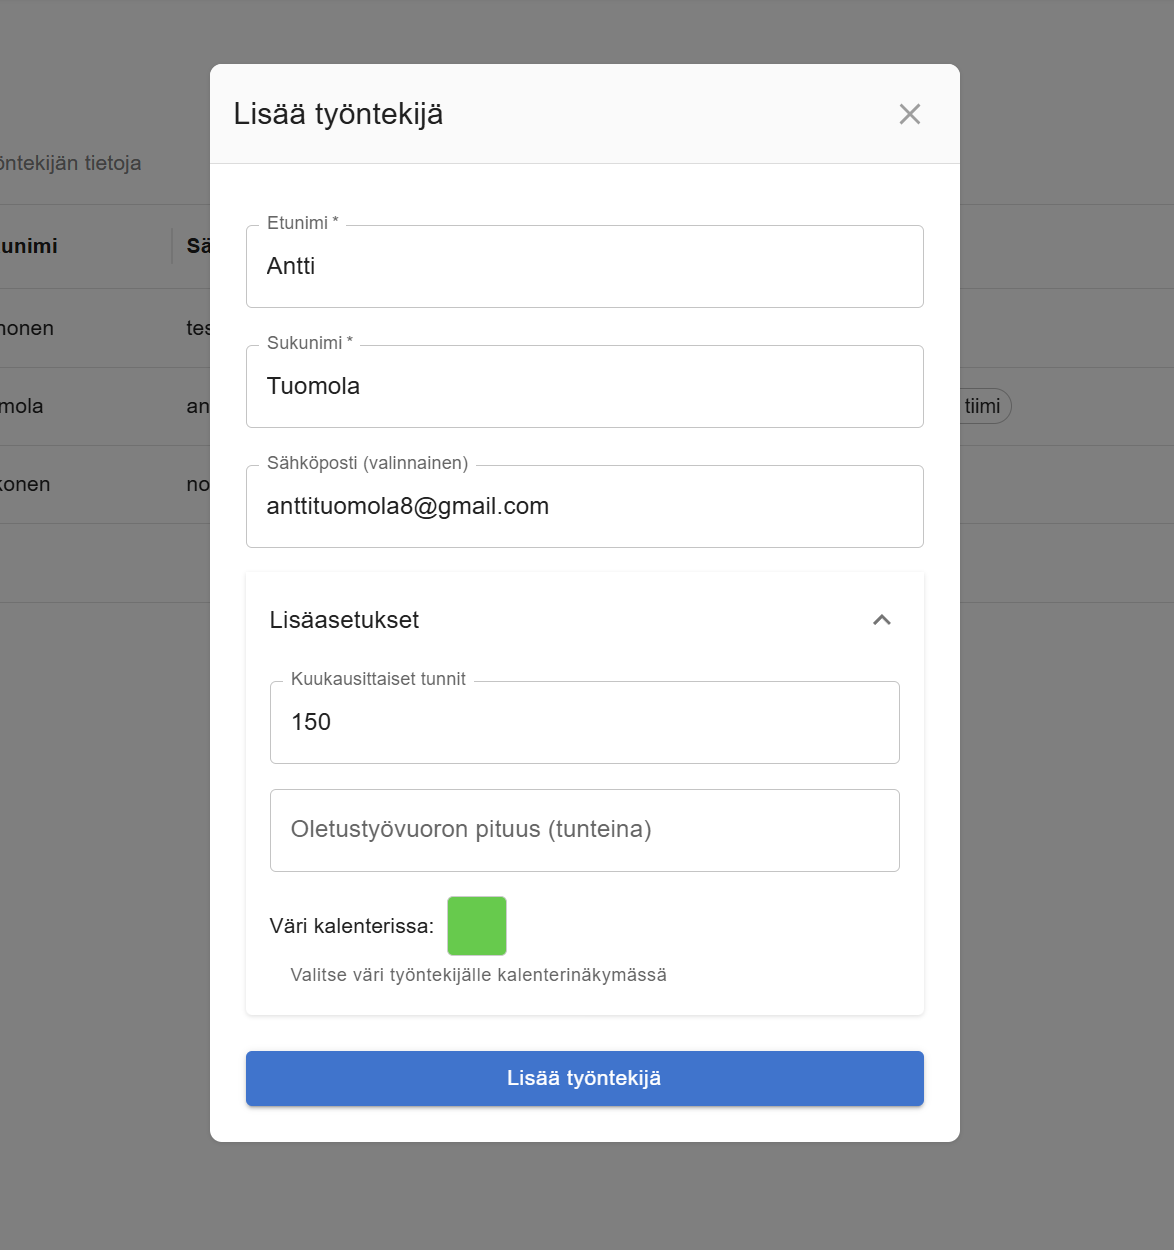
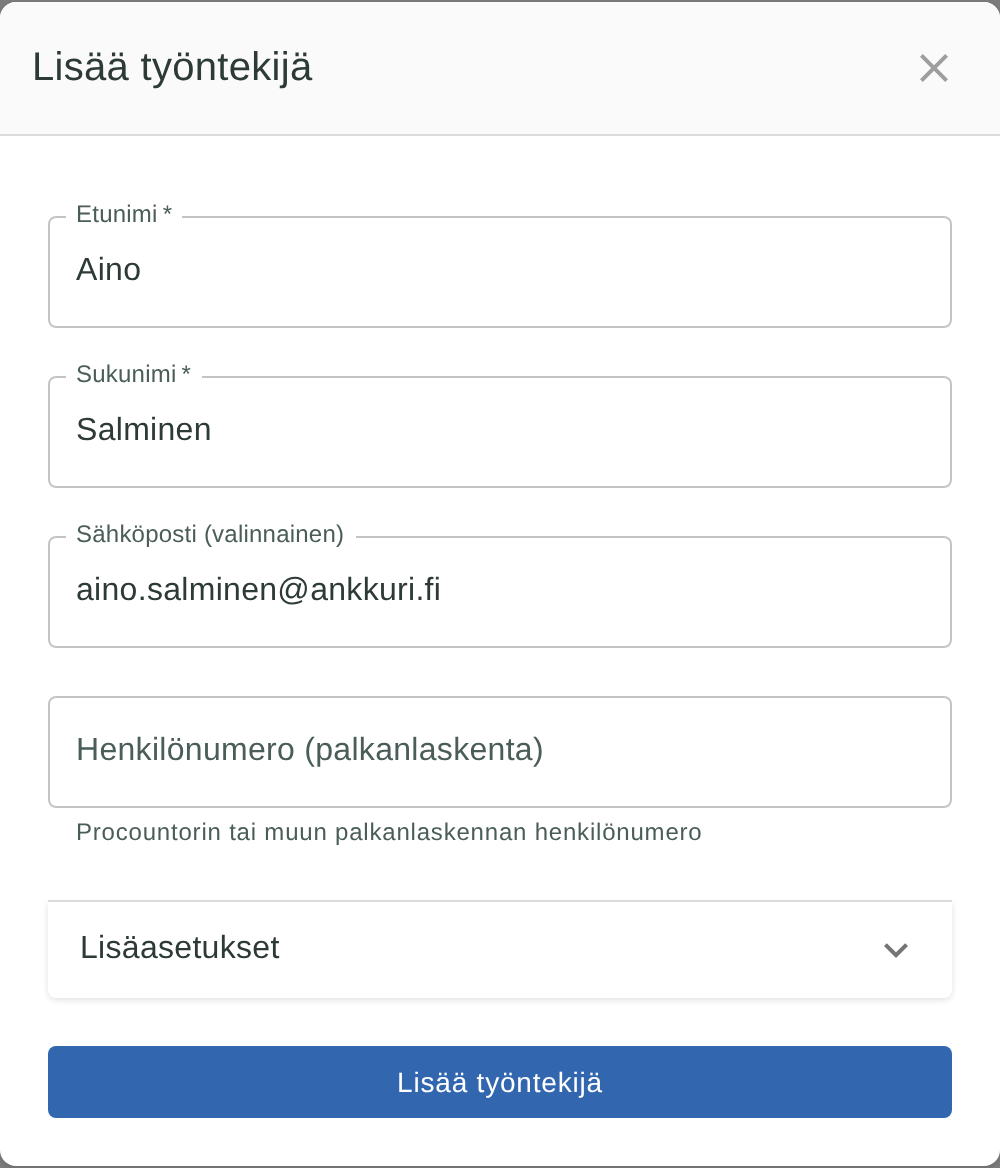
Update blog posts on employee management: Revise content to include new employee import feature, enhance clarity on adding employees, and update images for better visual representation. Adjust publication date and description for improved relevance.

diff --git a/src/pages/posts/tyontekijoiden_hallinta.md b/src/pages/posts/tyontekijoiden_hallinta.md
@@ -1,60 +1,102 @@
 ---
 layout: ../../layouts/MarkdownPostLayout.astro
-title: 'Työntekijöiden hallinta: lisääminen, muokkaus ja poisto'
-pubDate: 2026-05-22
-description: 'Opas työntekijöiden lisäämiseen, tietojen muokkaamiseen ja pysyvään poistoon – sekä mitä tapahtuu julkaistuille ja julkaisemattomille vuoroille.'
+title: 'Työntekijöiden hallinta: lisääminen, tuonti, muokkaus ja poisto'
+pubDate: 2026-07-25
+description: 'Kaikki tavat lisätä työntekijöitä: yksi kerrallaan, liitä lista (tuonti) ja tuonti tilin luonnissa. Lisäksi muokkaus, poisto ja tilauksen työntekijäraja.'
 author: 'Antti Tuomola'
 image:
     url: '/blogPostImages/tyontekijoiden_hallinta/yleiskuva.png'
-    alt: 'Työntekijät-sivu työntekijälistauksella.'
-tags: ["työntekijät", "hallinta", "onboarding", "työsopimus"]
+    alt: 'Työntekijät-sivu, jossa painikkeet Tuo työntekijät ja Lisää uusi työntekijä.'
+tags: ["työntekijät", "hallinta", "onboarding", "työsopimus", "päivitykset"]
 ---
 
-Työntekijät ovat työvuorosuunnittelun perusta. Tässä oppaassa käymme läpi, miten lisäät uuden työntekijän, muokkaat hänen tietojaan ja poistat työntekijän pysyvästi – sekä mitä nämä toimet tarkoittavat julkaistuille ja julkaisemattomille työvuoroille.
+*Päivitetty 25.7.2026: lisätty työntekijöiden tuonti liittämällä lista (Työntekijät-sivulla ja tilin luonnissa) sekä tarkennettu eri lisäystavat.*
+
+Työntekijät ovat työvuorosuunnittelun perusta. Tässä oppaassa käydään läpi **kaikki tavat lisätä työntekijöitä**, mitä kannattaa tietää nimistä ja sähköposteista, sekä miten muokkaat ja poistat työntekijöitä turvallisesti.
 
 ## Työntekijät-sivu
 
-Siirry **Hallinta → Työntekijät** -valikkoon. Näet kaikki aktiiviset työntekijät taulukossa tiimeineen.
+Siirry **Hallinta → Työntekijät**. Näet aktiiviset työntekijät taulukossa tiimeineen. Oikealla ylhäällä on kaksi painiketta:
 
-<img src="/blogPostImages/tyontekijoiden_hallinta/yleiskuva.png" alt="Hallinta → Työntekijät -sivu" width="100%" style="max-width: 900px; display: block; margin: 20px auto;" />
+- **Tuo työntekijät** — liitä olemassa oleva lista (teksti, taulukko, Word- tai PDF-kopio)
+- **Lisää uusi työntekijä** — yksi henkilö kerrallaan
 
-Paina **Lisää työntekijä** -painiketta uuden henkilön luomiseen tai klikkaa työntekijän riviä avataksesi hänen tietonsa.
+<img src="/blogPostImages/tyontekijoiden_hallinta/yleiskuva.png" alt="Hallinta → Työntekijät -sivu tuonti- ja lisäyspainikkeilla" width="100%" style="max-width: 900px; display: block; margin: 20px auto;" />
 
-## Uuden työntekijän lisääminen
+Klikkaa riviltä työntekijää avataksesi hänen tietonsa. Voit lisätä työntekijöitä myös **Suunnittele**-näkymän vasemmasta reunasta (plus-ikoni) — sama yhden henkilön lomake.
 
-Lisää työntekijä -modaalissa täytät vähintään etu- ja sukunimen. Muut kentät ovat valinnaisia mutta suositeltavia:
+## Kolme tapaa lisätä työntekijöitä
+
+### 1. Yksi kerrallaan
+
+Paina **Lisää uusi työntekijä**. Pakollisia ovat etu- ja sukunimi. Muut kentät ovat valinnaisia mutta hyödyllisiä:
 
 | Kenttä | Miksi se kannattaa täyttää |
 |--------|---------------------------|
-| **Sähköposti** | Työvuorolistojen lähetys sähköpostilla ([lue lisää](/posts/tyontekijan_lisaaminen_ilman_sahkopostiosoitetta)) |
-| **Työtunnit työsopimuksessa** | Tavoitetuntien laskenta kalenterissa ja [Tuntien kirjaus](/posts/tuntien_kirjaus_opas) -näkymässä |
-| **Oletustyövuoron pituus** | Uusien vuorojen oletuspituus; jätä tyhjäksi käyttääksesi tiimin oletusta |
-| **Väri** | Erottaa työntekijän kalenterissa muista |
+| **Sähköposti** | Henkilökohtaisten listojen lähetys ([ilman sähköpostia](/posts/tyontekijan_lisaaminen_ilman_sahkopostiosoitetta) onnistuu myös) |
+| **Henkilönumero** | Palkanlaskennan tunniste (esim. Procountor) |
+| **Työtunnit työsopimuksessa** | Tavoitetunnit kalenterissa ja [Tuntien kirjaus](/posts/tuntien_kirjaus_opas) -näkymässä (**Lisäasetukset**) |
+| **Oletustyövuoron pituus** | Uusien vuorojen oletuspituus; tyhjä = tiimin oletus |
+| **Väri** | Erottaa työntekijän kalenterissa |
 
-Uusi työntekijä liitetään automaattisesti **valittuun tiimiin**. Jos työntekijä työskentelee useassa tiimissä, lisää hänet muihin tiimeihin **Hallinta → Tiimit** -sivulta ([tiimit ja saman työntekijän käyttö eri tiimeissä](/posts/tiimit_ja_tyotekijoiden_kaytto_eri_tiimeissa)).
+<img src="/blogPostImages/tyontekijoiden_hallinta/lisaa_tyontekija_modaali.png" alt="Lisää työntekijä -modaali: nimi, valinnainen sähköposti ja henkilönumero" width="100%" style="max-width: 500px; display: block; margin: 20px auto;" />
 
-<img src="/blogPostImages/tyontekijoiden_hallinta/lisaa_tyontekija_modaali.png" alt="Lisää työntekijä -modaali" width="100%" style="max-width: 600px; display: block; margin: 20px auto;" />
+Uusi työntekijä liitetään automaattisesti **valittuun tiimiin**. Useaan tiimiin: **Hallinta → Tiimit** ([tiimit ja saman työntekijän käyttö eri tiimeissä](/posts/tiimit_ja_tyotekijoiden_kaytto_eri_tiimeissa)).
+
+### 2. Tuo lista liittämällä (uutuus)
+
+Jos työntekijät ovat jo Excelissä, Wordissa, PDF:ssä tai vaikka WhatsApp-viestissä, et joudu kirjoittamaan nimiä uudelleen:
+
+1. Paina **Tuo työntekijät**.
+2. Liitä lista tekstikenttään — muoto voi olla sekava; tarvitaan etunimi, sukunimi ja sähköposti jos se on saatavilla.
+3. Paina **Jäsennä lista**. Sovellus tunnistaa rivit automaattisesti.
+4. Tarkista taulukko, korjaa tarvittaessa ja poista turhat rivit.
+5. Paina **Tuo X työntekijää**.
+
+<img src="/blogPostImages/tyontekijoiden_hallinta/tuo_tyontekijat_liita.png" alt="Tuo työntekijät: liitä sekainen lista tekstikenttään" width="100%" style="max-width: 700px; display: block; margin: 20px auto;" />
+
+<img src="/blogPostImages/tyontekijoiden_hallinta/tuo_tyontekijat_tarkistus.png" alt="Tuonnin tarkistustaulukko: etunimi, sukunimi ja sähköposti" width="100%" style="max-width: 700px; display: block; margin: 20px auto;" />
+
+Hyvä tietää tuonnista:
+
+- **Liitettyä tekstiä ei tallenneta** — sitä käytetään vain listan jäsentämiseen.
+- **Jo listalla olevat** (sama sähköposti tai sama etu- + sukunimi) ohitetaan.
+- Puutteelliset rivit (esim. pelkkä etunimi) ohitetaan, kunnes korjaat ne.
+- Tuodut työntekijät liittyvät **nykyiseen tiimiin**, kuten yksittäin lisätytkin.
+- Tilauksen työntekijäraja pätee myös tuontiin — ylimääräiset voit tuoda, kun päivität pakettia.
+
+### 3. Tuonti tilin luonnissa
+
+Kun viimeistelet uutta tiliä (**Viimeistele tilisi**), voit avata valinnaisen kohdan **Tuo työntekijät** ja liittää listan jo ennen ensimmäistä kalenterinäkymää. Sinut lisätään silti ensimmäiseksi työntekijäksi; tuonti tuo loput. Jos jätät kohdan tyhjäksi, voit tuoda työntekijät myöhemmin Työntekijät-sivulta.
+
+→ [Uuden tilin luominen](/posts/uuden_tilin_luominen) · [Näin pääset alkuun](/posts/nain_paaset_alkuun_tyovuorolistassa)
+
+## Mitä kannattaa tietää työntekijöistä
+
+**Sähköposti on valinnainen.** Ilman sähköpostia voit suunnitella vuorot normaalisti, mutta henkilökohtaista listaa ei voi lähettää sähköpostilla — julkaisussa näet siitä varoituksen.
+
+**Mini-paketissa on 3 työntekijän raja** (sinä mukaan lukien). Kun raja tulee vastaan, sovellus ehdottaa tilauksen päivittämistä. Katso [hinnoittelu](/posts/hinnoittelun_uudistus_maaliskuu_2026).
+
+**Nimi riittää aloittamiseen.** Sopimustunnit, työsuhteen tiedot ja TES-kentät voit täyttää myöhemmin ([työntekijän TES-tiedot](/posts/tyontekijan_tes_tiedot), [työtunnit työsopimuksessa](/posts/tyotunnit_tyosopimuksessa)).
 
 ## Työntekijän tietojen muokkaus
 
-Klikkaa työntekijän riviä **Työntekijät**- tai **Suunnittele**-näkymässä. Modaalissa paina **Muokkaa** ja päivitä tarvittavat tiedot.
+Klikkaa työntekijän riviä **Työntekijät**- tai **Suunnittele**-näkymässä. Avaa **Muokkaa** ja päivitä tiedot.
 
-Tärkeimmät kentät päivittäessä:
+Tärkeimmät kentät:
 
-- **Sähköposti** – tarvitaan henkilökohtaisten työvuorolistojen lähettämiseen
+- **Sähköposti** – ennen listojen lähettämistä
 - **Työtunnit työsopimuksessa** – täysaikaisilla tyypillisesti 150 h/kk ([tavoitetuntien laskenta](/posts/merkattujen_ja_puuttuvien_tyotuntien_laskeminen))
 - **Oletustyövuoron pituus** – yksilöllinen oletus vuorojen luonnissa
-- **Oletusresurssi** – näkyy vain, jos resurssiaikataulutus on käytössä ([resurssien aikataulutus](/posts/resurssien_aikataulutus_ominaisuus))
+- **Oletusresurssi** – jos resurssiaikataulutus on käytössä ([resurssien aikataulutus](/posts/resurssien_aikataulutus_ominaisuus))
 
-Voit muokata työntekijän tietoja myös suoraan kalenterin vasemmalta puolelta – katso [työntekijälistauksen muokkaus kalenterinäkymässä](/posts/tyontekijalistauksen_muokkaus_kalenterinakymassa).
+Kalenterin vasemmasta reunasta: [työntekijälistauksen muokkaus](/posts/tyontekijalistauksen_muokkaus_kalenterinakymassa).
 
 ## Työntekijän poisto
 
-**Poista työntekijä** -painike poistaa työntekijän pysyvästi. Ennen vahvistusta sovellus varoittaa:
+**Poista työntekijä** (työntekijän tietonäkymässä) poistaa työntekijän pysyvästi. Ennen vahvistusta sovellus varoittaa:
 
 > Olet poistamassa työntekijää. Tämä poistaa myös kaikki hänen julkaisemattomat työvuoronsa.
-
-Poiston vaikutukset:
 
 | | Julkaisemattomat listat | Julkaistut listat |
 |---|------------------------|-------------------|
@@ -62,24 +104,17 @@ Poiston vaikutukset:
 | Työntekijä itse | Poistuu pysyvästi | – |
 | Palautus | **Ei mahdollista** | – |
 
-Poistettua työntekijää tai hänen mukanaan poistettuja vuoroja ei voi palauttaa. Käytä poistoa vain, kun työntekijä ei enää työskentele yrityksessäsi.
+Käytä poistoa vain, kun työntekijä ei enää työskentele yrityksessäsi.
 
-<img src="/blogPostImages/tyontekijoiden_hallinta/poista_varoitus.png" alt="Työntekijän poiston vahvistusmodaali" width="100%" style="max-width: 600px; display: block; margin: 20px auto;" />
+<img src="/blogPostImages/tyontekijoiden_hallinta/poista_varoitus.png" alt="Työntekijän poiston vahvistusvaroitus" width="100%" style="max-width: 600px; display: block; margin: 20px auto;" />
 
-## Julkaistu lista ja työntekijän poisto
-
-Kun lista on merkitty julkaistuksi, sen vuorot säilyvät ennallaan vaikka poistaisit työntekijän. Tämä pitää historiadatan eheänä palkka- ja raportointitarpeita varten.
-
-Jos haluat muokata julkaistua listaa, palauta se ensin muokattavaksi **Hallinta → Työvuorolistat** -näkymästä. Lue lisää [työvuorolistojen julkaisusta](/posts/tyovuorolistojen_julkaisu_ja_lahettaminen_tyontekijoille).
-
-## Työntekijämäärän raja
-
-Jos yrityksesi työntekijämäärä ylittää tilauksesi rajan, uuden työntekijän lisääminen estyy ja sovellus ehdottaa tilauksen päivittämistä. Katso [hinnoittelu ja tilaustyypit](/posts/hinnoittelun_uudistus_maaliskuu_2026).
+Julkaistun listan vuorot säilyvät, vaikka poistaisit työntekijän — historia pysyy eheänä palkka- ja raportointitarpeita varten. Julkaistun listan muokkaus: palauta lista muokattavaksi **Hallinta → Työvuorolistat** -näkymästä ([julkaisu](/posts/tyovuorolistojen_julkaisu_ja_lahettaminen_tyontekijoille)).
 
 ## Yhteenveto
 
-1. **Lisää** työntekijä Hallinta → Työntekijät -sivulta ja täytä vähintään nimi + sopimustunnit
-2. **Muokkaa** tietoja tarvittaessa – erityisesti sähköposti ennen listojen lähettämistä
-3. **Poista** vain, kun työntekijä poistuu pysyvästi – muista julkaisemattomien vuorojen katoaminen
+1. **Lisää yksi** — Hallinta → Työntekijät → Lisää uusi työntekijä (tai kalenterin plus)
+2. **Tuo monta** — Tuo työntekijät → liitä lista → tarkista → tuo (tai jo tilin luonnissa)
+3. **Muokkaa** tarvittaessa — erityisesti sähköposti ennen listojen lähettämistä
+4. **Poista** vain pysyvään poistumiseen — muista julkaisemattomien vuorojen katoaminen
 
 Hyvin ylläpidetty työntekijärekisteri tekee sekä suunnittelusta että [tuntien kirjauksesta](/posts/tuntien_kirjaus_opas) sujuvampaa.

diff --git a/src/pages/posts/uuden_tilin_luominen.md b/src/pages/posts/uuden_tilin_luominen.md
@@ -48,11 +48,13 @@ Kun kaikki pakolliset kentät (merkitty tähdellä *) on täytetty, klikkaa **"R
 
 ### 4. Valmista - tili luotu!
 
-Kun tili on luotu, sovellus:
+Kun viimeistelet tiliä, voit halutessasi avata kohdan **Tuo työntekijät** ja liittää olemassa olevan henkilöstölistan heti mukaan. Kun tili on luotu, sovellus:
 - ✅ Luo yrityksellesi tilin automaattisesti
 - ✅ Lisää ensimmäisen tiimin nimellä "Tiimi 1"
-- ✅ Lisää sinut ensimmäiseksi työntekijäksi
+- ✅ Lisää sinut ensimmäiseksi työntekijäksi (ja tuomasi työntekijät, jos liitit listan)
 - ✅ Ohjaa sinut luomaan ensimmäisen työvuorolistan
+
+→ Laajempi opas: [Työntekijöiden hallinta](/posts/tyontekijoiden_hallinta)
 
 <img src="/blogPostImages/account-management/04-account-created-success.png" alt="Tili luotu onnistuneesti" width="100%" style="max-width: 600px; display: block; margin: 20px auto;" />
 
